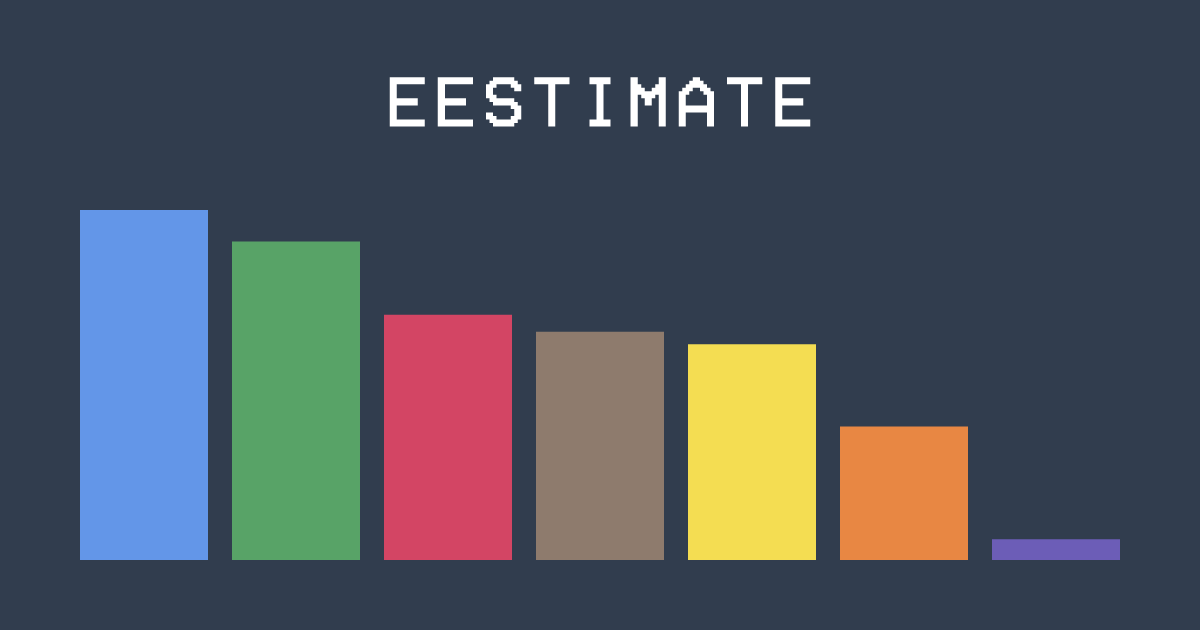
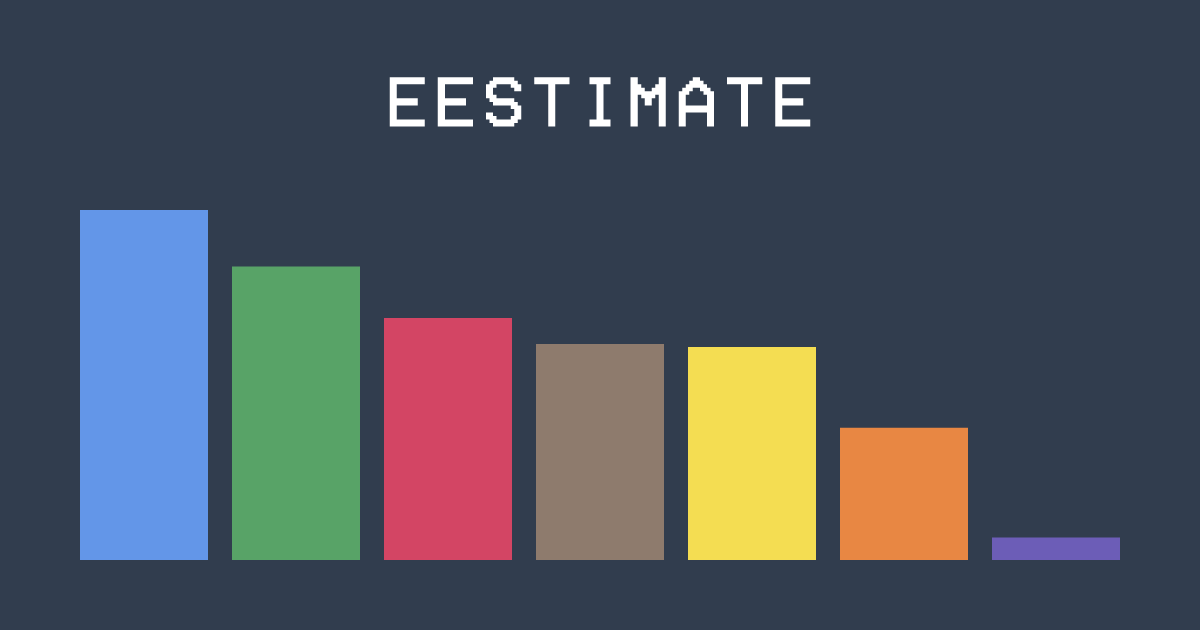
Update embed [automated]

diff --git a/index.html b/index.html
@@ -10,13 +10,13 @@
   <meta property="og:type" content="website">
   <meta property="og:url" content="https://bananasareviolet.github.io/eestimate/">
   <meta property="og:title" content="Eestimate, a Riigikogu polling tracker">
-  <meta property="og:description" content="Eestimate is an Estonian party preference polling tracker and aggregator. Isamaa is leading Centre by 2.0 points. There are 158 days or fewer until the next Riigikogu election.">
+  <meta property="og:description" content="Eestimate is an Estonian party preference polling tracker and aggregator. Isamaa is leading Centre by 3.7 points. There are 157 days or fewer until the next Riigikogu election.">
   <meta property="og:image" content="https://bananasareviolet.github.io/eestimate/eestimate-embed.png">
   <meta property="og:image:width" content="1200">
   <meta property="og:image:height" content="630">
   <meta name="twitter:card" content="summary_large_image">
   <meta name="twitter:title" content="Eestimate, a Riigikogu polling tracker">
-  <meta name="twitter:description" content="Eestimate is an Estonian party preference polling tracker and aggregator. Isamaa is leading Centre by 2.0 points. There are 158 days or fewer until the next Riigikogu election.">
+  <meta name="twitter:description" content="Eestimate is an Estonian party preference polling tracker and aggregator. Isamaa is leading Centre by 3.7 points. There are 157 days or fewer until the next Riigikogu election.">
   <meta name="twitter:image" content="https://bananasareviolet.github.io/eestimate/eestimate-embed.png">
   <!-- EESTIMATE_OG_END -->
 
